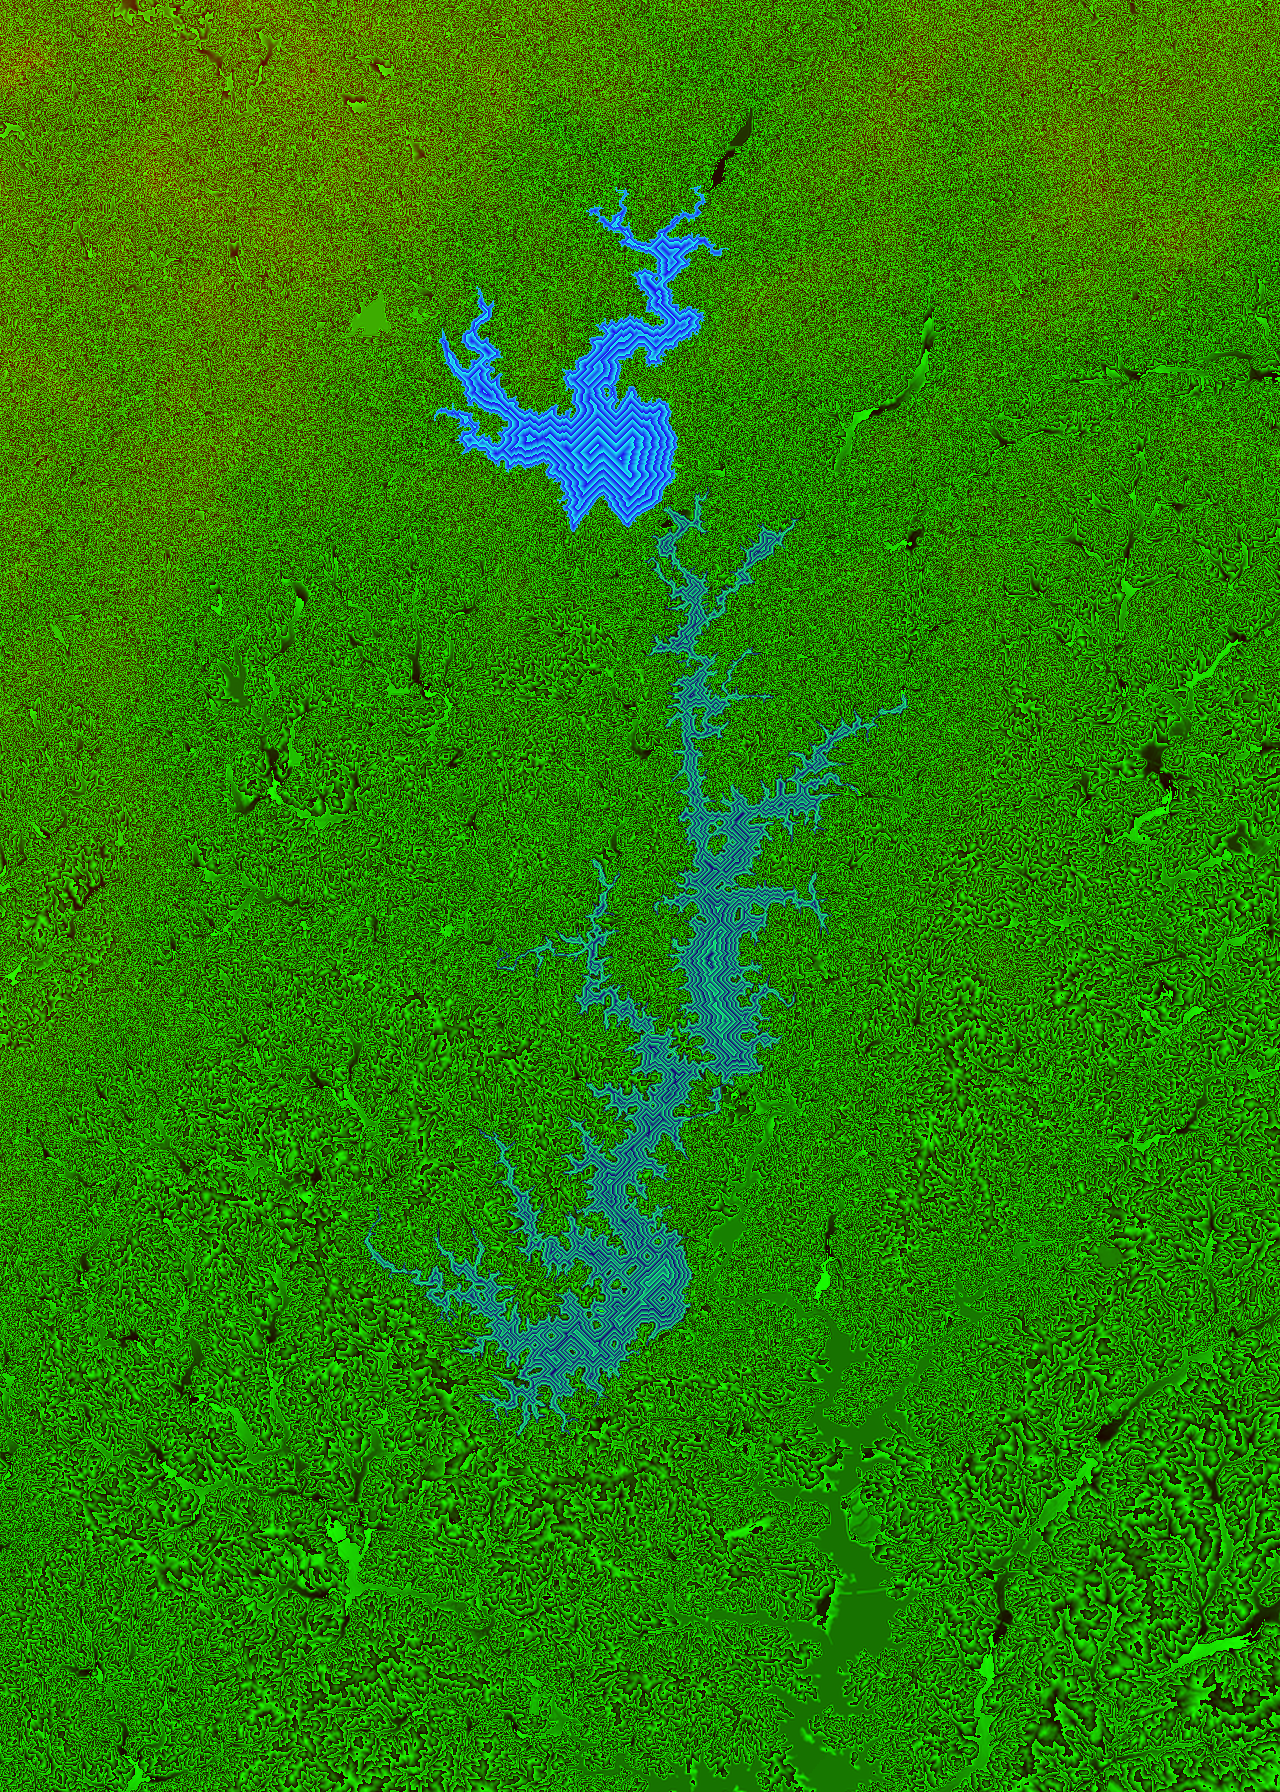
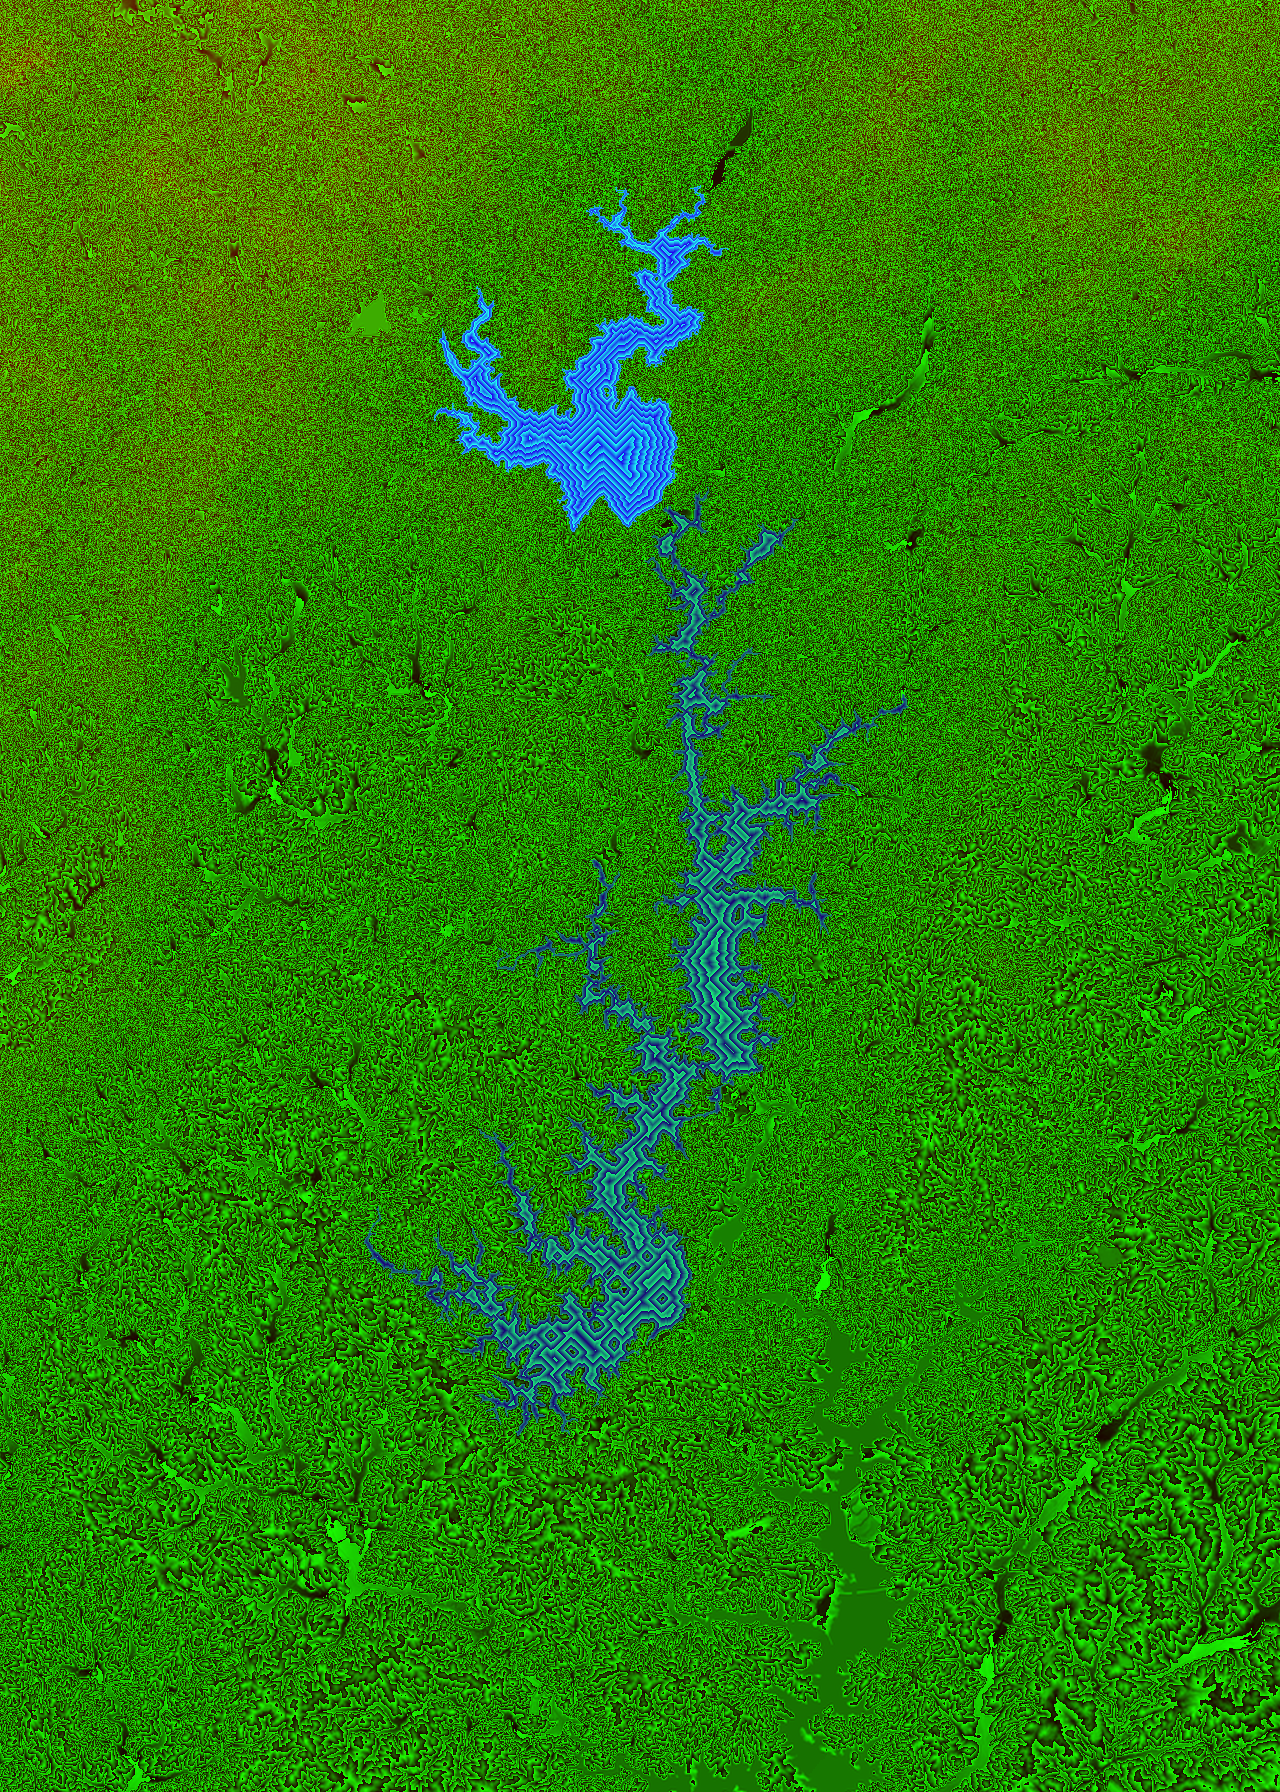
Correct lake depths to official SCDNR figures
Keowee max was modeled at 297 ft — a widely repeated but wrong
number; SCDNR says 155 ft (and the valley floor below the dam makes
297 physically impossible). Jocassee corrected 300 -> 351 ft.

Changed region(s): [[0.2812, 0.125, 0.6562, 0.8125], [0.6562, 0.375, 0.6875, 0.4062], [0.5938, 0.2812, 0.625, 0.3125]]

diff --git a/scripts/build_depth.py b/scripts/build_depth.py
@@ -20,8 +20,8 @@ BBOX = (-83.08, 34.64, -82.75, 35.10)          # W, S, E, N
 TILE_URL = "https://s3.amazonaws.com/elevation-tiles-prod/terrarium/{z}/{x}/{y}.png"
 LAKES = [  # name, candidate open-water seeds (lon, lat), max depth m (published)
     ("keowee", [(-82.91, 34.78), (-82.92, 34.75), (-82.885, 34.80),
-                (-82.90, 34.85), (-82.895, 34.72)], 90.5),        # 297 ft
-    ("jocassee", [(-82.92, 34.97), (-82.94, 34.99)], 91.4),       # 300 ft
+                (-82.90, 34.85), (-82.895, 34.72)], 47.2),        # 155 ft (SCDNR)
+    ("jocassee", [(-82.92, 34.97), (-82.94, 34.99)], 107.0),      # 351 ft (SCDNR)
 ]
 OUT_DIR = os.path.join(os.path.dirname(__file__), "..", "depth")
 ELEV_OFF, ELEV_SCALE = 100.0, 0.05              # packed = (m + off) / scale